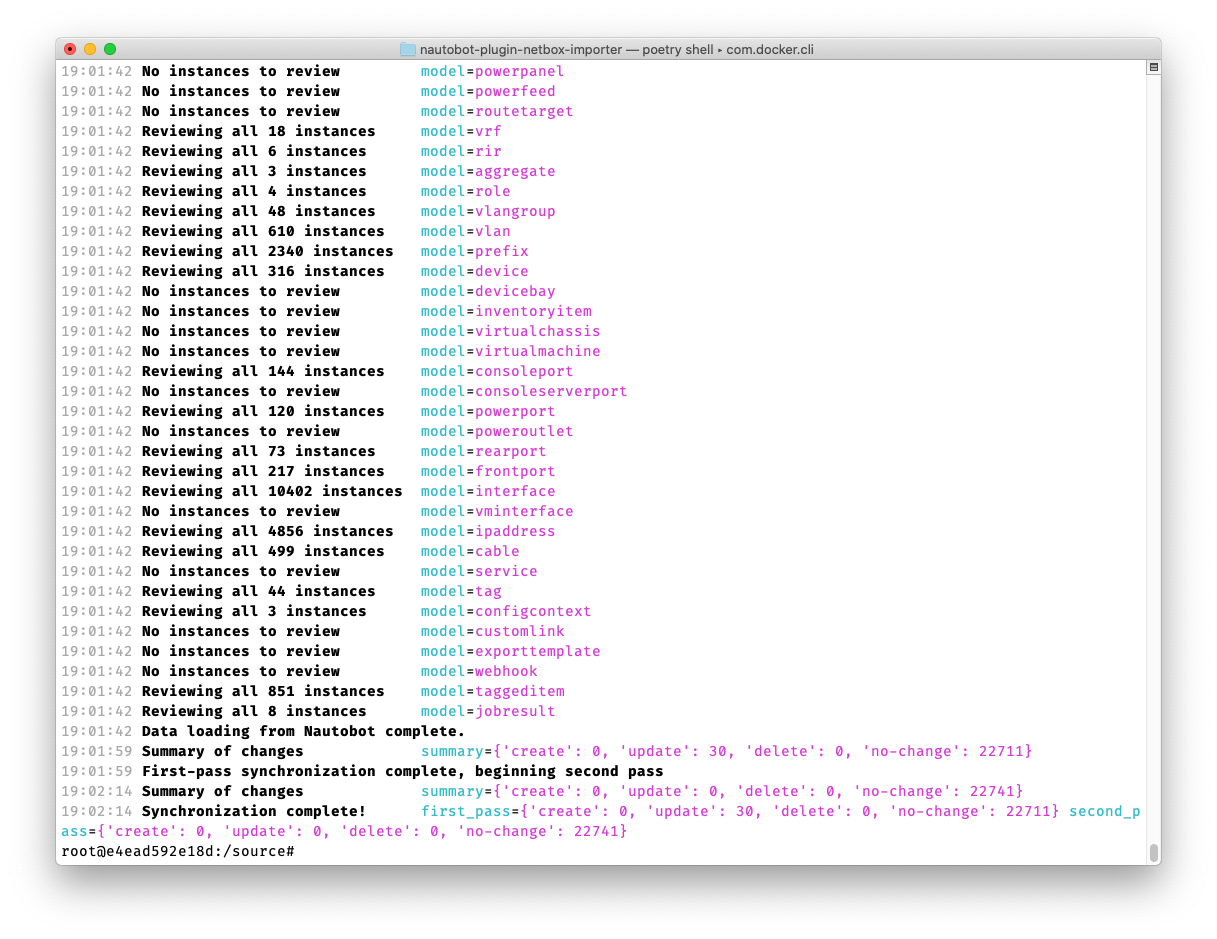
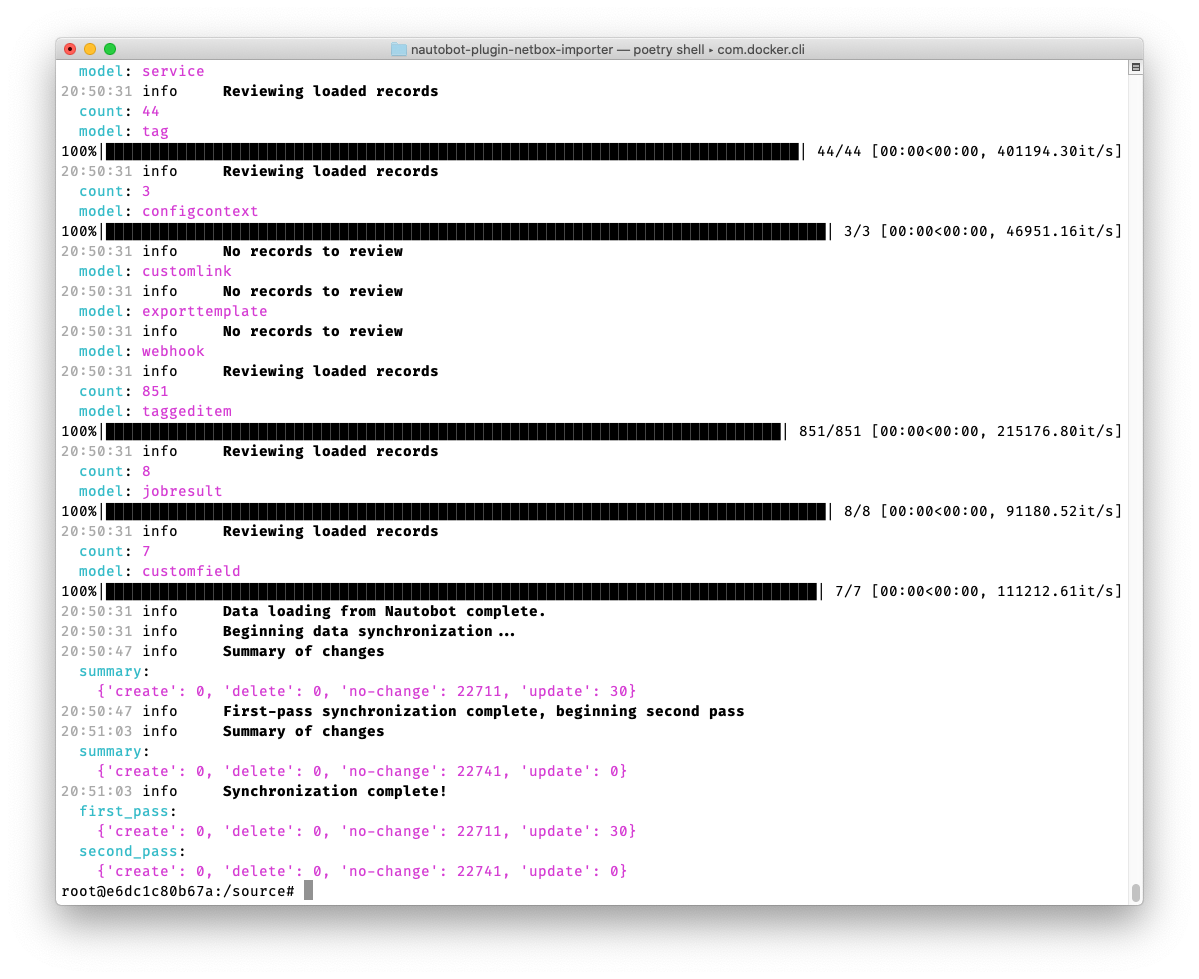
Rework logging to use a custom renderer. Fixes #22

diff --git a/nautobot_netbox_importer/management/commands/import_netbox_json.py b/nautobot_netbox_importer/management/commands/import_netbox_json.py
@@ -1,8 +1,11 @@
 """Definition of "manage.py import_netbox_json" Django command for use with Nautobot."""
 import argparse
+from io import StringIO
 import json
-import logging
+import pprint
+import textwrap
 
+import colorama
 from diffsync import DiffSyncFlags
 from packaging import version
 import structlog
@@ -10,6 +13,57 @@ import structlog
 from django.core.management.base import BaseCommand, CommandError
 
 from nautobot_netbox_importer.diffsync.adapters import netbox_adapters, NautobotDiffSync
+
+
+class LogRenderer:
+    """Class for rendering structured logs to the console in a human-readable format.
+
+    Example:
+        19:48:19 Apparent duplicate object encountered?
+          duplicate_id:
+            {'group': None,
+            'name': 'CR02.CHI_ORDMGMT',
+            'site': {'name': 'CHI01'},
+            'vid': 1000}
+          model: vlan
+          pk_1: 3baf142d-dd90-4379-a048-3bbbcc9c799c
+          pk_2: cba19791-4d59-4ddd-a5c9-d969ec3ed2ba
+    """
+
+    def __call__(
+        self,
+        logger: structlog.types.WrappedLogger,
+        name: str,
+        event_dict: structlog.types.EventDict,
+    ) -> str:
+        """Render the given event_dict to a string."""
+        sio = StringIO()
+
+        ts = event_dict.pop("timestamp", None)
+        if ts is not None:
+            sio.write(f"{colorama.Style.DIM}{ts}{colorama.Style.RESET_ALL} ")
+
+        level = event_dict.pop("level", None)
+        if level is not None:
+            if level in ("warning", "error", "critical"):
+                sio.write(f"{colorama.Fore.RED}{level:<9}{colorama.Style.RESET_ALL}")
+            else:
+                sio.write(f"{level:<9}")
+
+        event = event_dict.pop("event", None)
+        sio.write(f"{colorama.Style.BRIGHT}{event}{colorama.Style.RESET_ALL}")
+
+        for key, value in event_dict.items():
+            if isinstance(value, dict):
+                # We could use json.dumps() here instead of pprint.pformat,
+                # but I find pprint to be a bit more compact while still readable.
+                value = "\n" + textwrap.indent(pprint.pformat(value), "    ")
+            sio.write(
+                f"\n  {colorama.Fore.CYAN}{key}{colorama.Style.RESET_ALL}: "
+                f"{colorama.Fore.MAGENTA}{value}{colorama.Style.RESET_ALL}"
+            )
+
+        return sio.getvalue()
 
 
 class Command(BaseCommand):
@@ -25,40 +79,22 @@ class Command(BaseCommand):
     @staticmethod
     def enable_logging(verbosity=0):
         """Set up structlog (as used by DiffSync) to log messages for this command."""
+        colorama.init()
         structlog.configure(
             processors=[
-                structlog.stdlib.PositionalArgumentsFormatter(),
+                structlog.stdlib.add_log_level,
                 structlog.processors.TimeStamper(fmt="%H:%M:%S"),
-                structlog.processors.StackInfoRenderer(),
-                structlog.processors.format_exc_info,
-                structlog.stdlib.ProcessorFormatter.wrap_for_formatter,
+                LogRenderer(),
             ],
             context_class=dict,
-            logger_factory=structlog.stdlib.LoggerFactory(),
-            wrapper_class=structlog.stdlib.BoundLogger,
+            # Logging levels aren't very granular, so we adjust the log level based on *half* the verbosity level:
+            # Verbosity     Logging level
+            # 0             30 (WARNING)
+            # 1-2           20 (INFO)
+            # 3+            10 (DEBUG)
+            wrapper_class=structlog.make_filtering_bound_logger(10 * (3 - ((verbosity + 1) // 2))),
             cache_logger_on_first_use=True,
         )
-        formatter = structlog.stdlib.ProcessorFormatter(processor=structlog.dev.ConsoleRenderer())
-        handler = logging.StreamHandler()
-        handler.setFormatter(formatter)
-        root_logger = logging.getLogger()
-        diffsync_logger = logging.getLogger("diffsync")
-        root_logger.addHandler(handler)
-        if verbosity == 0:
-            root_logger.setLevel(logging.WARNING)
-            diffsync_logger.setLevel(logging.WARNING)
-        elif verbosity == 1:  # usual default value
-            root_logger.setLevel(logging.INFO)
-            diffsync_logger.setLevel(logging.WARNING)
-        elif verbosity == 2:
-            root_logger.setLevel(logging.INFO)
-            diffsync_logger.setLevel(logging.INFO)
-        elif verbosity == 3:
-            root_logger.setLevel(logging.DEBUG)
-            diffsync_logger.setLevel(logging.INFO)
-        else:
-            root_logger.setLevel(logging.DEBUG)
-            diffsync_logger.setLevel(logging.DEBUG)
 
     def handle(self, *args, **options):
         """Handle execution of the import_netbox_json management command."""
@@ -82,6 +118,11 @@ class Command(BaseCommand):
 
         target = NautobotDiffSync()
         target.load()
+
+        # Lower the verbosity of newly created structlog loggers by one (half-) step
+        # This is so that DiffSync's internal logging defaults to slightly less verbose than
+        # our own (plugin) logging.
+        self.enable_logging(verbosity=(options["verbosity"] - 1))
 
         logger.info("Beginning data synchronization...")
         # Due to the fact that model inter-references do not form an acyclic graph,

diff --git a/nautobot_netbox_importer/diffsync/adapters/abstract.py b/nautobot_netbox_importer/diffsync/adapters/abstract.py
@@ -293,8 +293,8 @@ class N2NDiffSync(DiffSync):
             instance = diffsync_model(**data, diffsync=self)
         except ValidationError as exc:
             self.logger.error(
-                "Invalid data according to internal data model. "
-                "This may be an issue with your source data or may reflect a bug in this plugin.",
+                "Invalid data according to internal data model",
+                comment="This may be an issue with your source data or may reflect a bug in this plugin.",
                 action="load",
                 exception=str(exc),
                 model=diffsync_model.get_type(),
@@ -306,8 +306,8 @@ class N2NDiffSync(DiffSync):
         except ObjectAlreadyExists:
             existing_instance = self.get(diffsync_model, instance.get_unique_id())
             self.logger.warning(
-                "Apparent duplicate object encountered? "
-                "This may be an issue with your source data or may reflect a bug in this plugin.",
+                "Apparent duplicate object encountered?",
+                comment="This may be an issue with your source data or may reflect a bug in this plugin.",
                 duplicate_id=instance.get_identifiers(),
                 model=diffsync_model.get_type(),
                 pk_1=existing_instance.pk,
